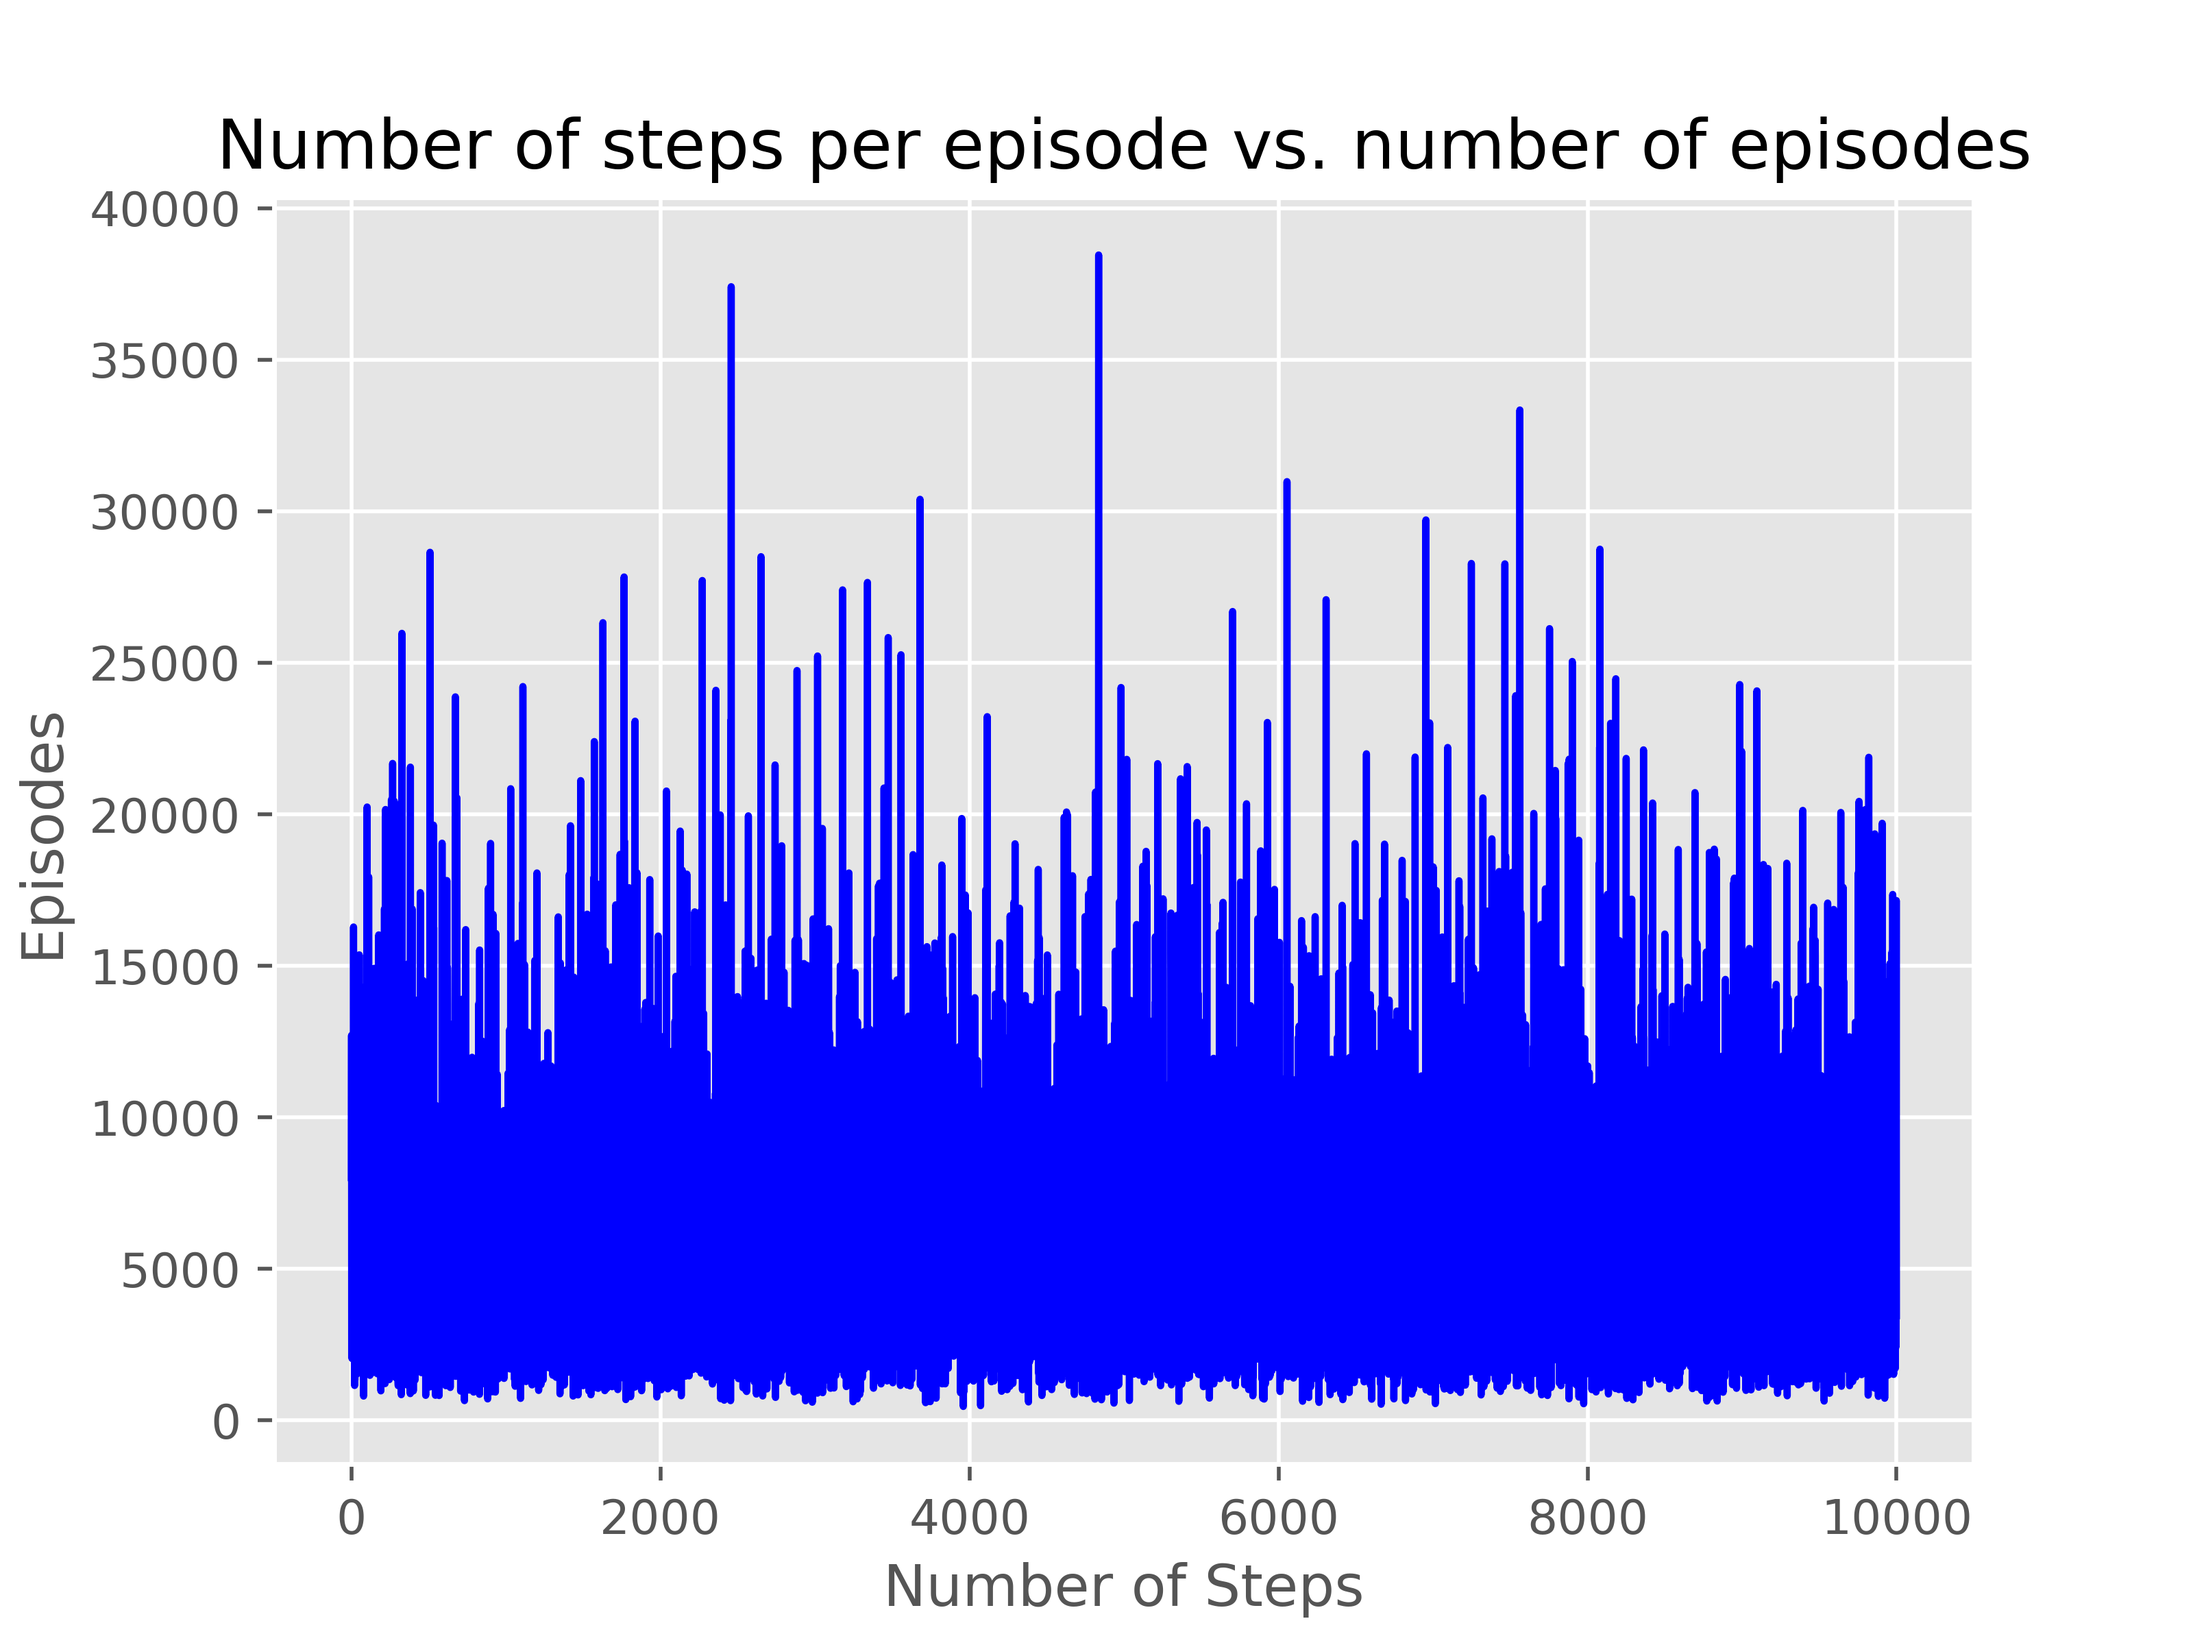
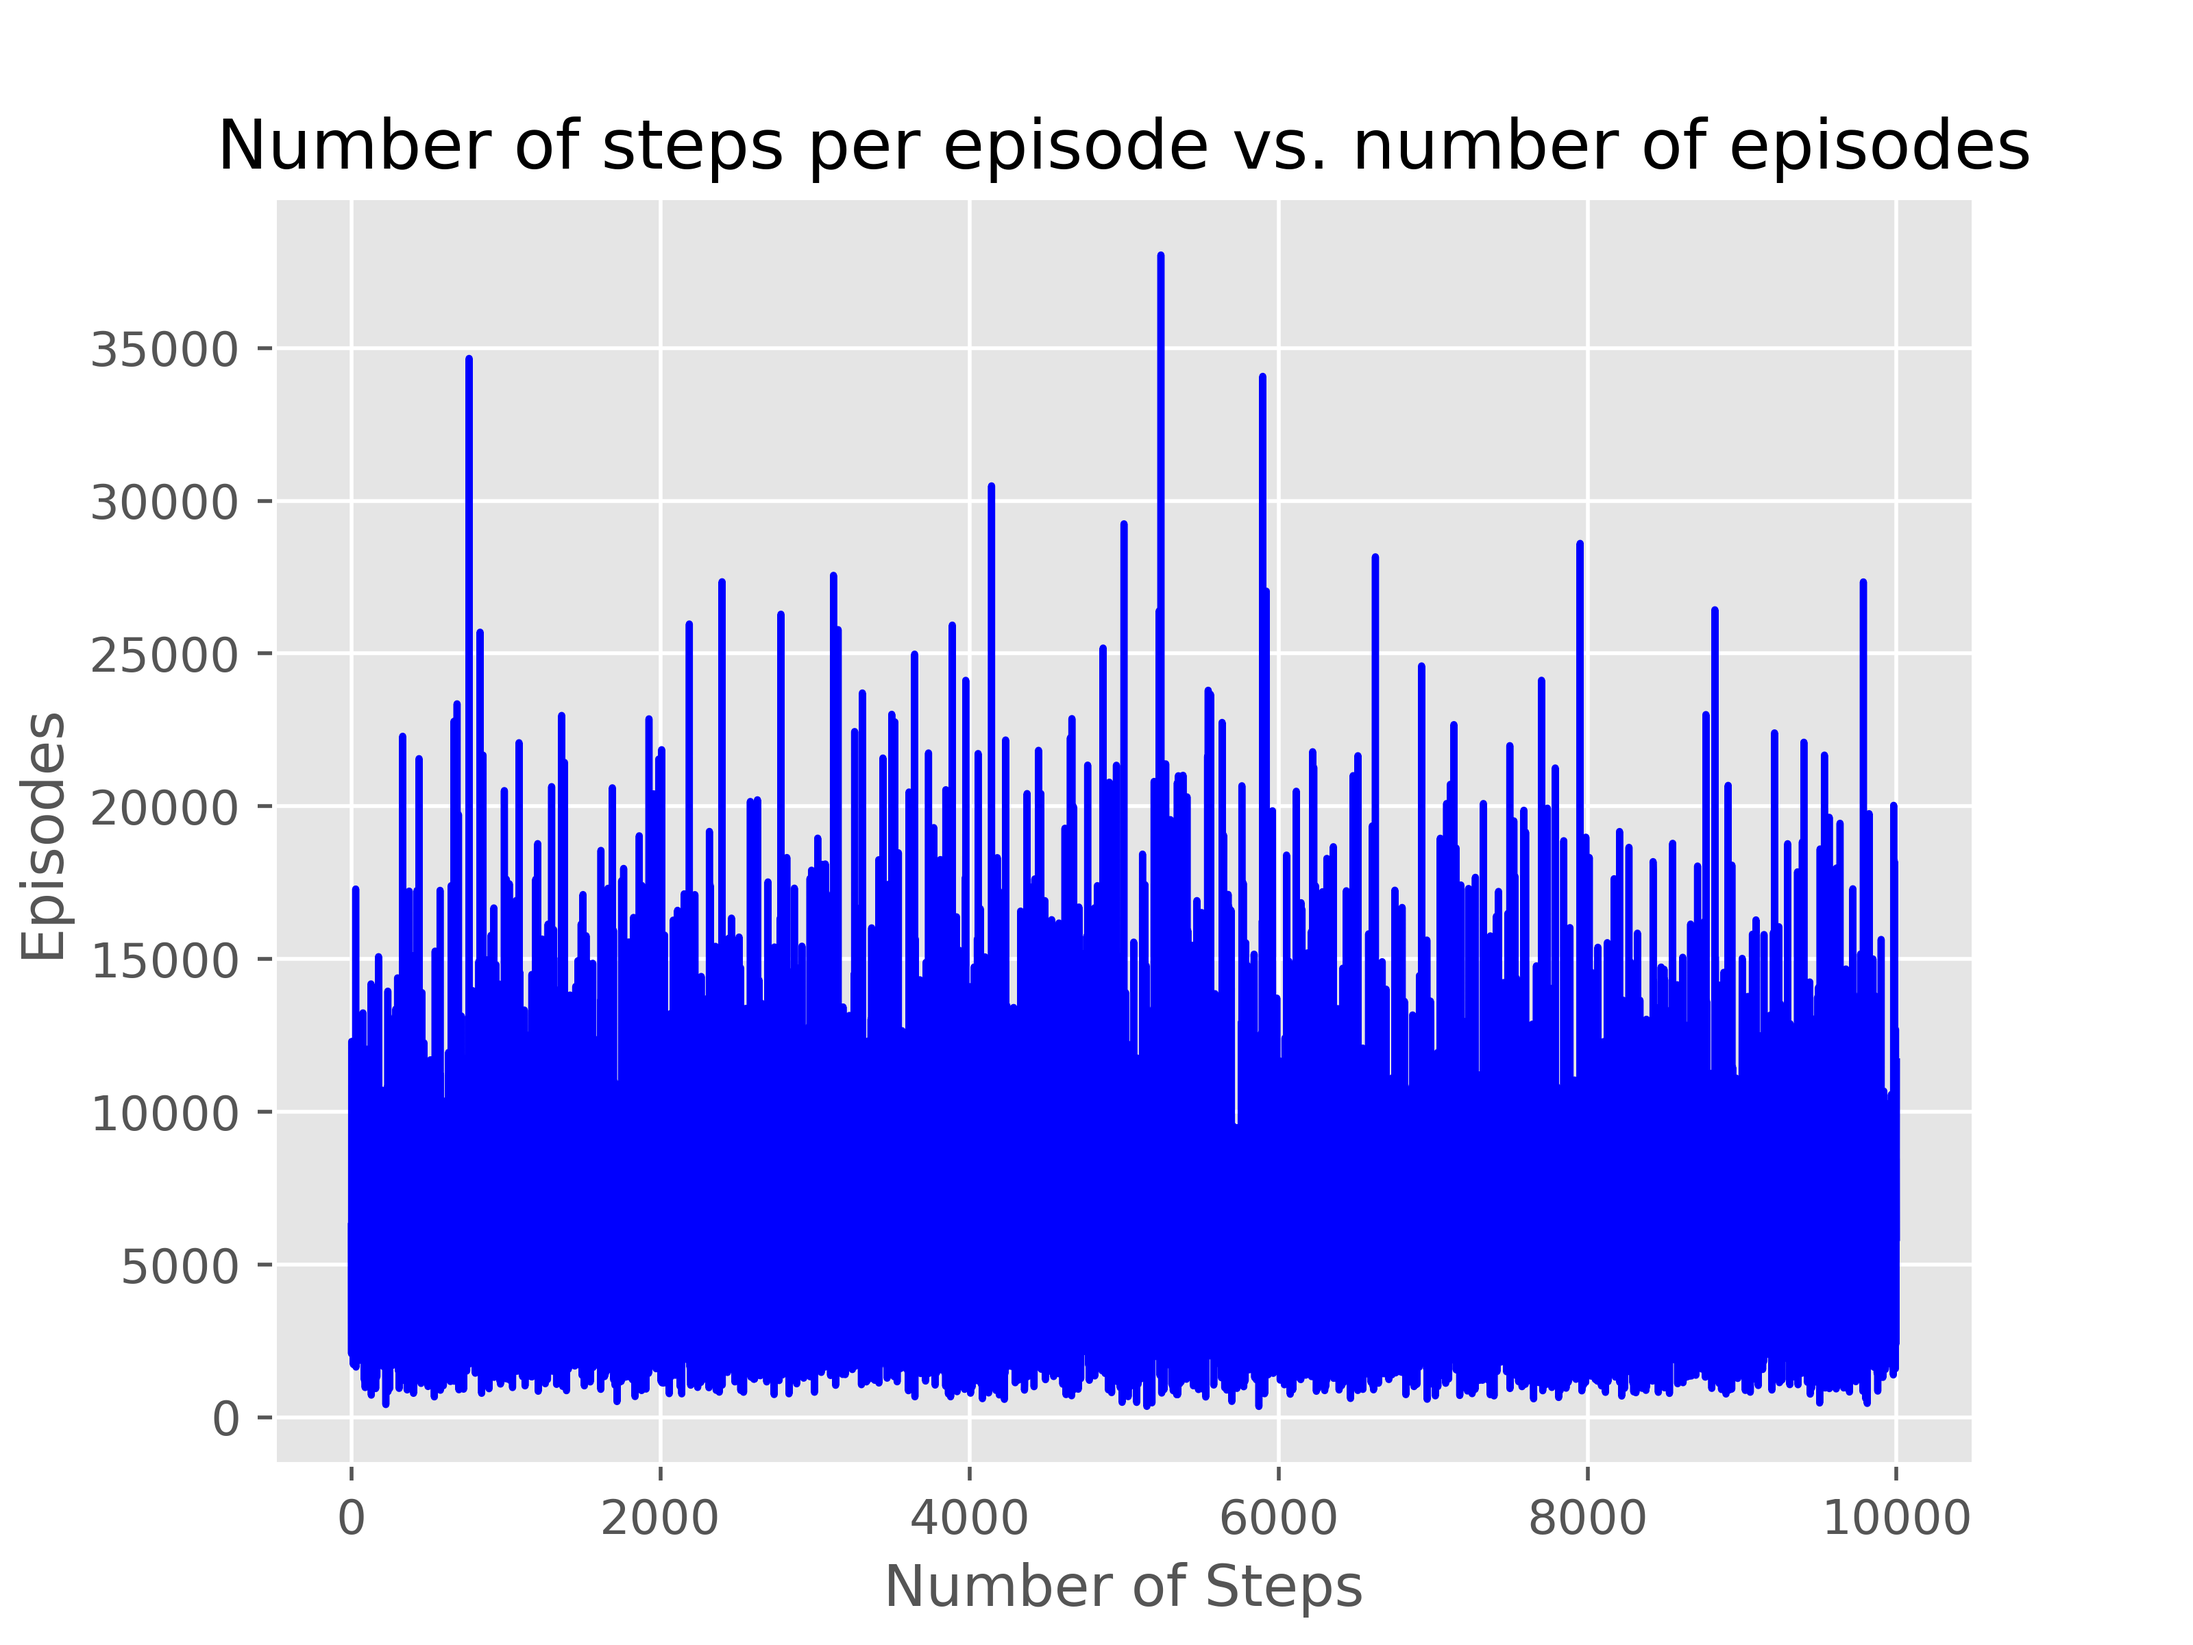
for now

diff --git a/actor_critic.py b/actor_critic.py
@@ -27,7 +27,7 @@ class actor_critic(MountainCar3D):
                 return np.random.randint(0, 5)
         
     
-    def actor_critic_with_eligibility_traces(self, gamma = 1, lambda_theta = 0.0005, lambda_weight = 0.0005, alpha_theta = 2**-9, alpha_weight = 2**-6, number_of_episodes = 10000):
+    def actor_critic_with_eligibility_traces(self, gamma = 0.1, lambda_theta = 0.0005, lambda_weight = 0.0005, alpha_theta = 2**-9, alpha_weight = 2**-6, number_of_episodes = 10000):
 
         for episode in tqdm(range(number_of_episodes), desc = "Episode"):
             step = 0
